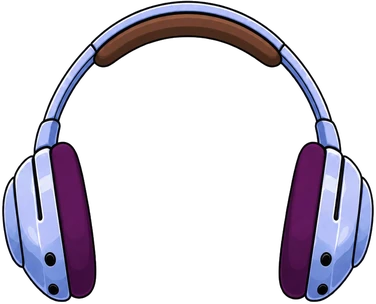
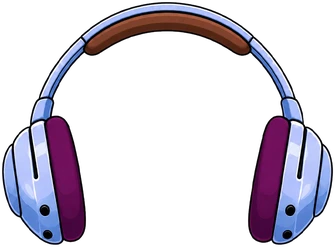
Наушники Лудомана: посадка по шаблону
Claude-Session: https://claude.ai/code/session_01E3jaUxUo8xTQNwyakAWMq3

diff --git a/src/client/preload.ts b/src/client/preload.ts
@@ -9,7 +9,7 @@ import { ASSET_FILES } from "./asset-manifest.ts";
 import { ROOM_BACKDROP, ROOM_BG } from "../content/home-scene.ts";
 
 /** cache-busting versions of redrawn art (bump when the picture changes) */
-export const ART_VER = { heroPart: 7, hair: 7, wear: 10, items: 11, pepe: 2, tattoo: 7 } as const;
+export const ART_VER = { heroPart: 7, hair: 7, wear: 11, items: 11, pepe: 2, tattoo: 7 } as const;
 
 /** the URL a screen really requests for a file from the manifest */
 export function usedUrl(path: string): string {

diff --git a/src/client/art/rig-look.ts b/src/client/art/rig-look.ts
@@ -148,10 +148,10 @@ export const WEAR_FIT = {
   },
   "headphones-vostok": {
     "slot": "HEAD",
-    "x": 315.5,
-    "y": 0.0,
-    "w": 376,
-    "h": 304
+    "x": 336.0,
+    "y": 15.0,
+    "w": 335,
+    "h": 247
   }
 } as const;
 /** head things that cut the hair under them (the rest are worn over the hair) */
